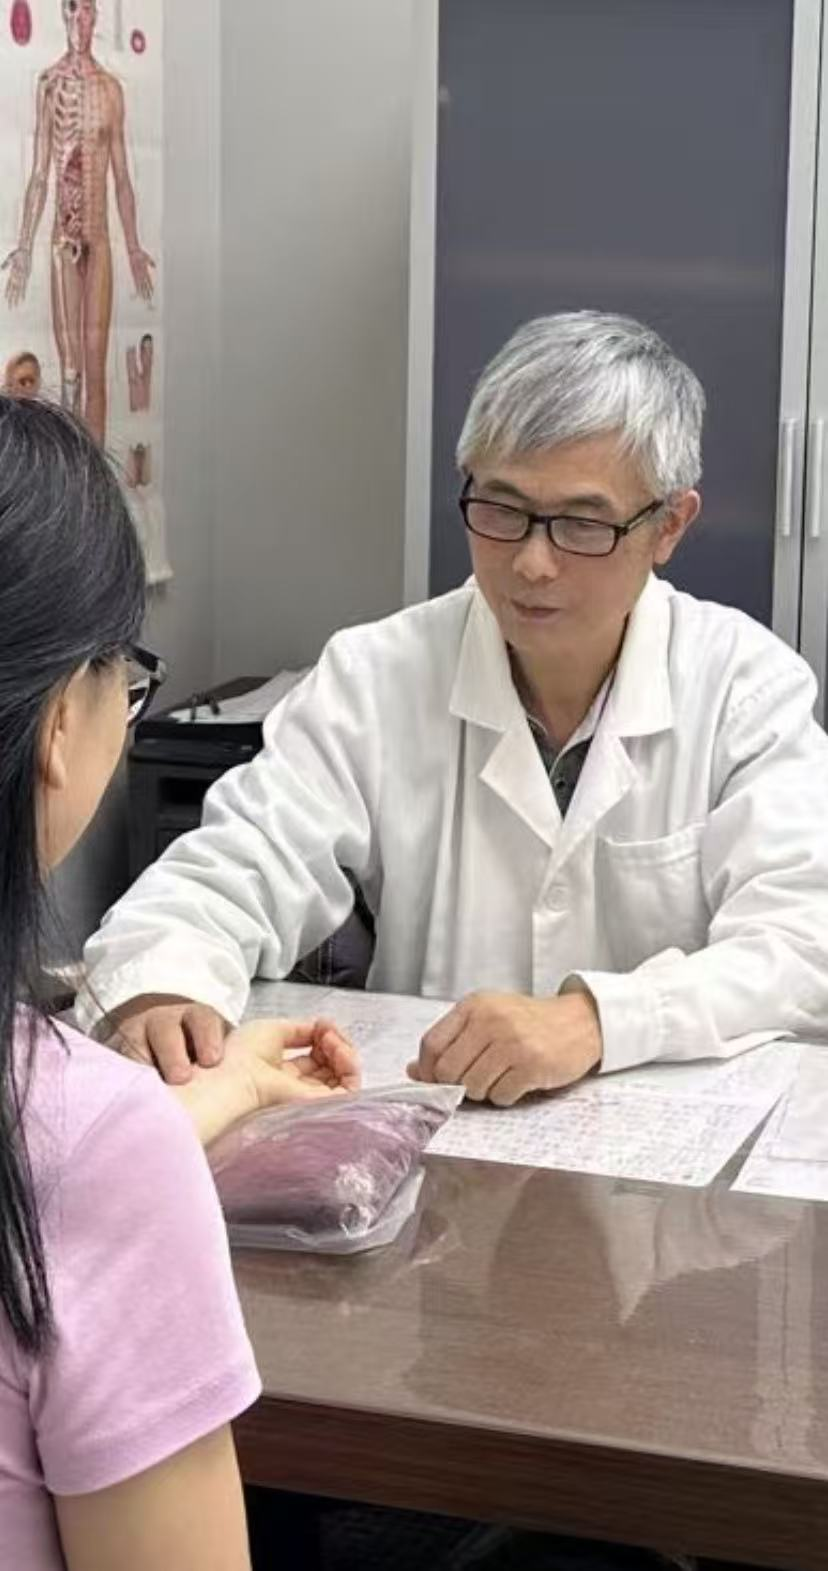
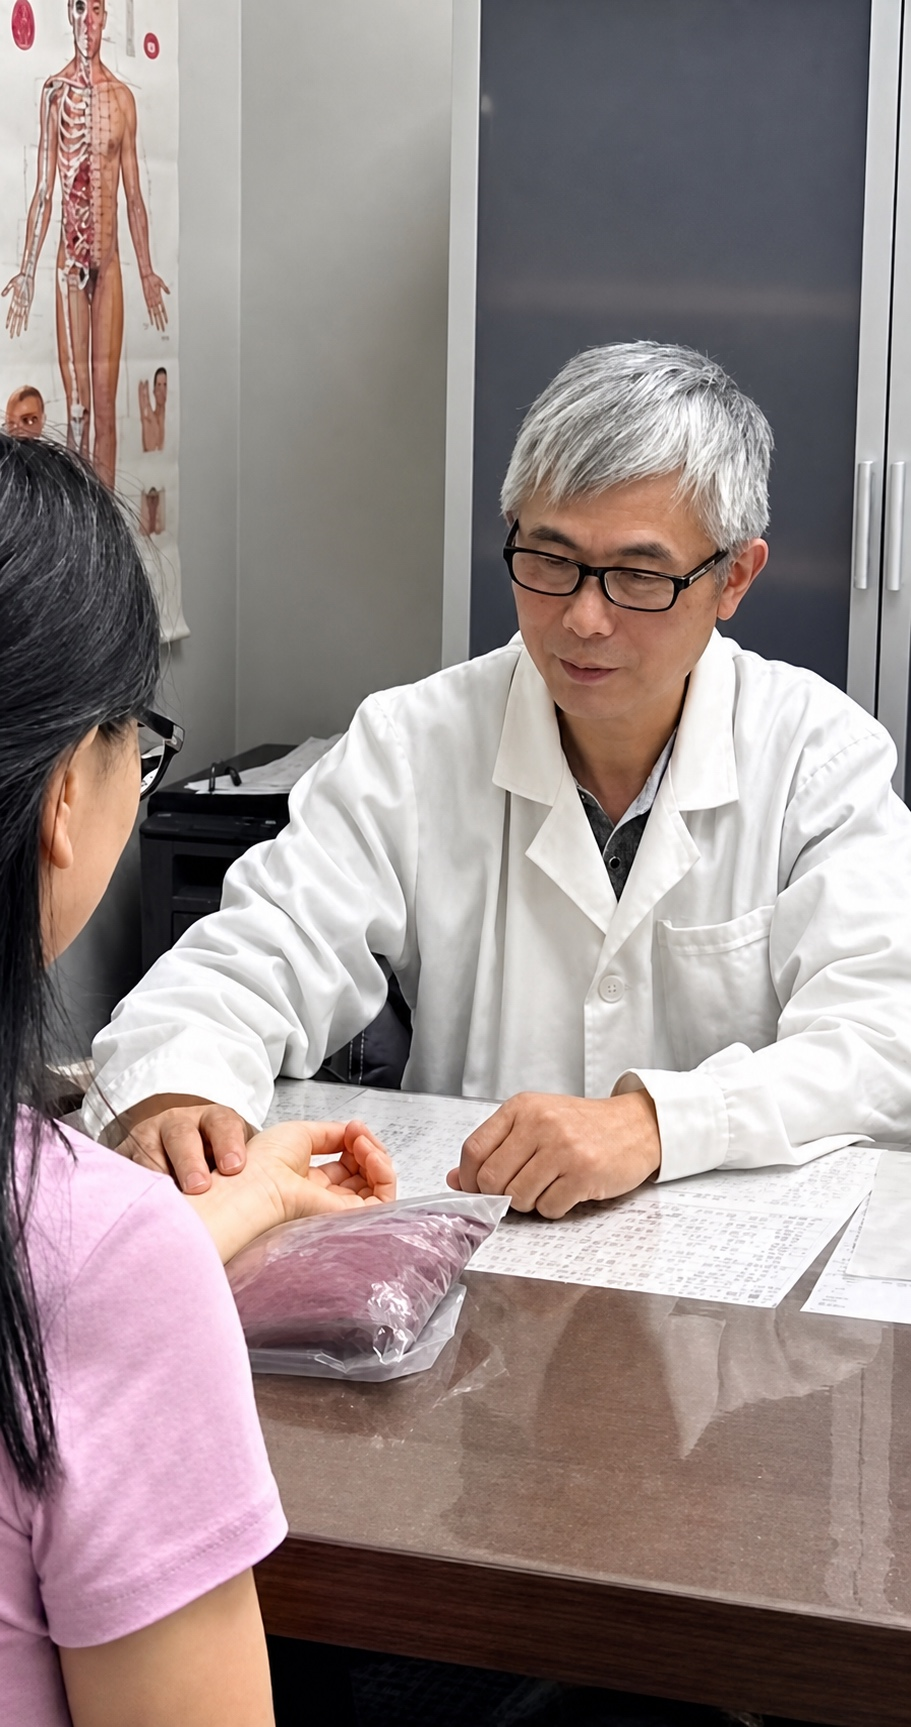
update website

diff --git a/data.jsx b/data.jsx
@@ -15,7 +15,7 @@ const CLINIC = {
   phoneRaw: "4168250982",
   address: "1675 The Chase #24b, Mississauga, ON L5M 5Y7",
   bio: {
-    zh: "夏医师出生于世医之家，青年时期幸得道医罗青子点拨，后经多年拜师学艺历练，深悟传统医道。临床诊病，未待病人详述，望闻问切尽知病在何处，病根起源，每每药到病除，屡起沉疴。您若有久治不愈的病症，或许将有幸从此解除痛苦。",
+    zh: "夏医师出生于世医之家，青年时期幸得道医罗青子点拨，后经多年拜师学艺历练，深悟传统医道。临床诊病，望闻问切尽知病在何处，病根起源，每每药到病除，屡起沉疴。您若有久治不愈的病症，或许将有幸从此解除痛苦。",
     en: "Practitioner Xia was born into a family of physicians spanning generations. In his youth he was guided by the Taoist healer Luo Qingzi, and through many years of apprenticeship came to deeply understand the traditional way of medicine. In the clinic he diagnoses before the patient speaks a word — reading the pulse and complexion to know where the illness lies and where its root begins. Time and again the remedy meets the illness, and long-standing afflictions are lifted. If an ailment has long resisted treatment, here you may finally find relief.",
   },
   credentials: [

diff --git a/pages.jsx b/pages.jsx
@@ -38,7 +38,7 @@ function AboutPage({ go }) {
   const ways = [
     { gl: "家", zh: "世医之家", en: "A lineage of physicians", dzh: "出生于数代行医的世医之家，自幼浸润于传统医道，耳濡目染、根基深厚。", den: "Born into generations of physicians, immersed in the traditional way of medicine from a young age — deeply rooted." },
     { gl: "师", zh: "道医点拨", en: "Guided by a master", dzh: "青年时期幸得道医罗青子点拨，后经多年拜师学艺历练，深悟传统医道之精微。", den: "In his youth, guided by the Taoist healer Luo Qingzi, then many years of apprenticeship refined his understanding." },
-    { gl: "证", zh: "临证如神", en: "Mastery in the clinic", dzh: "诊病不用病人先开口，望闻问切尽知病在何处、病根起源，每每药到病除。", den: "He diagnoses before a word is spoken — reading pulse and complexion to find the illness and its root." },
+    { gl: "证", zh: "临证经验丰富", en: "Mastery in the clinic", dzh: "望闻问切尽知病在何处、病根起源，每每药到病除。", den: "He diagnoses before a word is spoken — reading pulse and complexion to find the illness and its root." },
   ];
   return (
     <main>

diff --git a/image-slot.js b/image-slot.js
@@ -168,7 +168,7 @@
     // same left/top/width/height in frame-%, computed by _applyView(), so the
     // inside-mask crop and the outside-mask spill stay pixel-aligned.
     '.frame img{position:absolute;max-width:none;transform:translate(-50%,-50%);' +
-    '  -webkit-user-drag:none;user-select:none;touch-action:none}' +
+    '  -webkit-user-drag:none;user-select:none;touch-action:pan-y pinch-zoom}' +
     // Reframe mode (double-click): the full image spills past the mask. The
     // spill layer is sized to the IMAGE bounds so its corners are where the
     // resize handles belong. The ghost <img> inside is translucent; the real
@@ -187,6 +187,7 @@
     '.spill .handle[data-c=sw]{left:0;top:100%;cursor:nesw-resize}' +
     '.spill .handle[data-c=se]{left:100%;top:100%;cursor:nwse-resize}' +
     ':host([data-reframe]){z-index:10}' +
+    ':host([data-reframe]) .frame img{touch-action:none}' +
     ':host([data-reframe]) .spill{display:block}' +
     ':host([data-reframe]) .frame{box-shadow:0 0 0 2px #c96442}' +
     '.empty{position:absolute;inset:0;display:flex;flex-direction:column;align-items:center;' +

diff --git a/Plan.html b/Plan.html
@@ -225,7 +225,7 @@
 
     <div class="quote">
       <div class="seal-stamp">夏氏<br>世医</div>
-      <div class="cn-q">夏医生出生于世医之家，青年时期幸得道医罗青子点拨，深悟传统医道。临床诊病，未待病人详述，望闻问切尽知病在何处，病根起源——每每药到病除，屡起沉疴。</div>
+      <div class="cn-q">夏医生出生于世医之家，青年时期幸得道医罗青子点拨，深悟传统医道。临床诊病，望闻问切尽知病在何处，病根起源——每每药到病除，屡起沉疴。</div>
       <div class="attr">夏 扬　·　安省注册中医针灸师　·　亚健康调理专家</div>
     </div>
     <p style="font-size:14px;color:var(--ink-faint);margin-top:14px;">This story — the family lineage, the master 罗青子, diagnosis by pulse alone — is your strongest trust asset. I'll give it a prominent home on both the homepage and the About page.</p>
